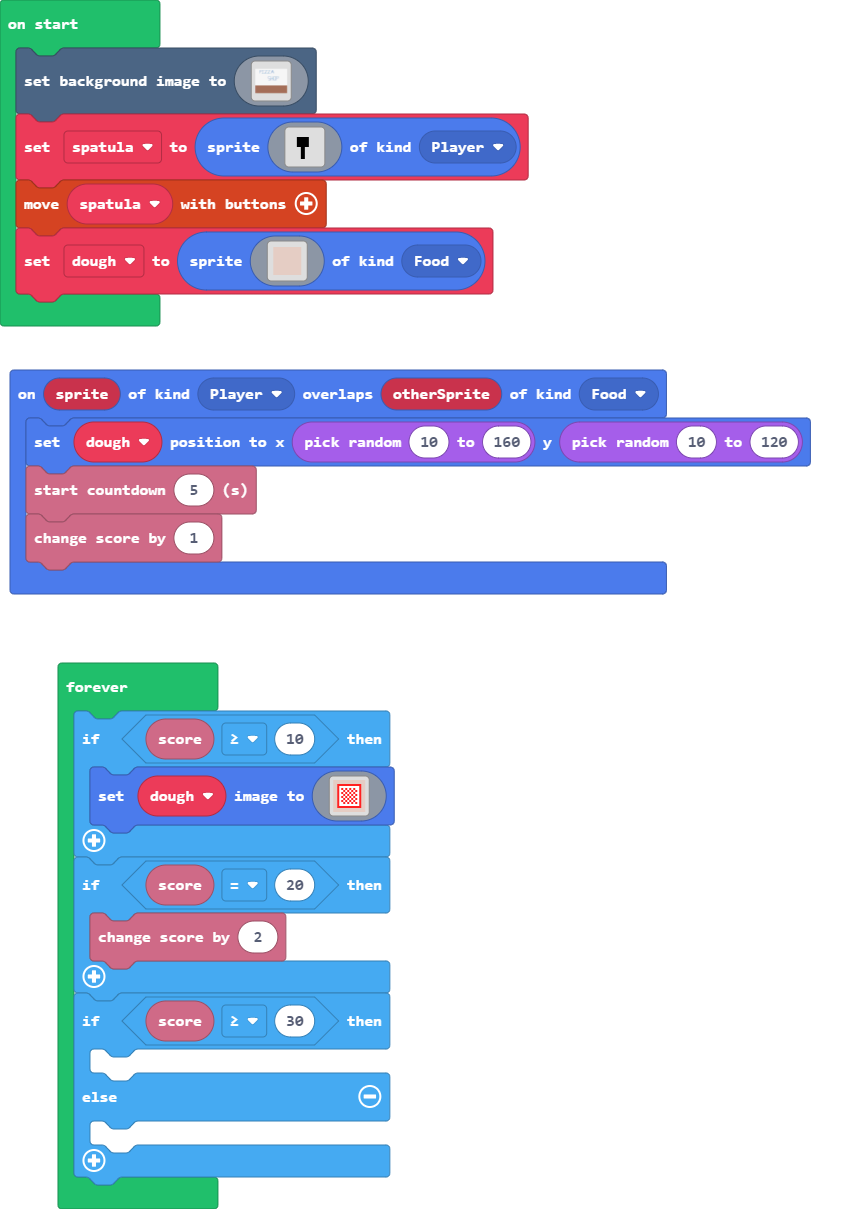
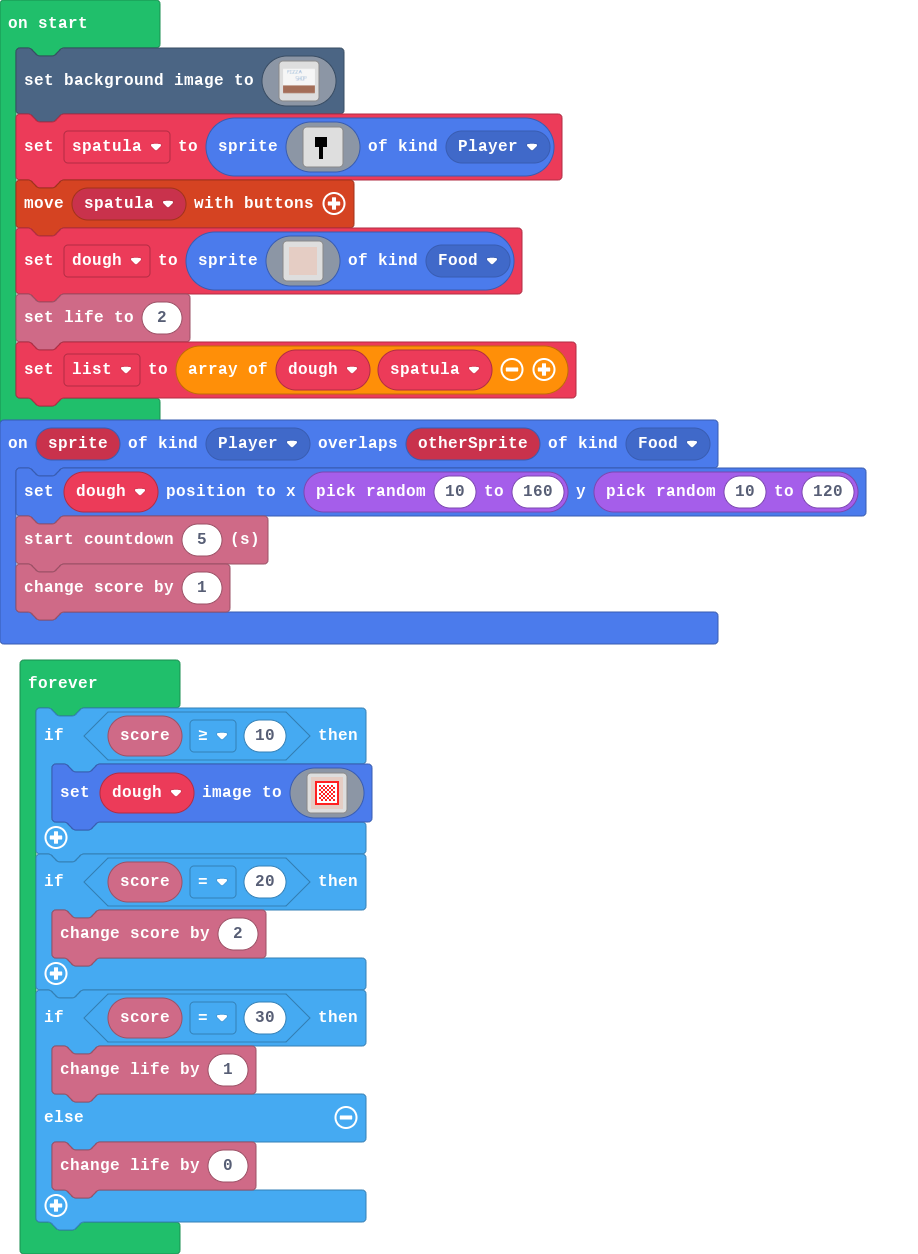
Update main.blocks, main.ts, main.py, images.g.jres, images.g.ts

diff --git a/images.g.ts b/images.g.ts
@@ -126,26 +126,98 @@ eeeeeeeeeeeeeeeeeeeeeeeeeeeeeeeeeeeeeeeeeeeeeeeeeeeeeeeeeeeeeeeeeeeeeeeeeeeeeeee
 eeeeeeeeeeeeeeeeeeeeeeeeeeeeeeeeeeeeeeeeeeeeeeeeeeeeeeeeeeeeeeeeeeeeeeeeeeeeeeeeeeeeeeeeeeeeeeeeeeeeeeeeeeeeeeeeeeeeeeeeeeeeeeeeeeeeeeeeeeeeeeeeeeeeeeeeeeeeeeee
 eeeeeeeeeeeeeeeeeeeeeeeeeeeeeeeeeeeeeeeeeeeeeeeeeeeeeeeeeeeeeeeeeeeeeeeeeeeeeeeeeeeeeeeeeeeeeeeeeeeeeeeeeeeeeeeeeeeeeeeeeeeeeeeeeeeeeeeeeeeeeeeeeeeeeeeeeeeeeeee
 `;
+            case "image5":return img`
+d d d d d d d d d d d d d d d d 
+d d d d d d d d d d d d d d d d 
+d d 2 2 2 2 2 2 2 2 2 2 2 2 d d 
+d d 2 1 1 1 1 1 1 1 1 1 1 2 d d 
+d d 2 1 2 1 2 1 2 1 2 1 1 2 d d 
+d d 2 1 1 2 1 2 1 2 1 2 1 2 d d 
+d d 2 1 2 1 2 1 2 1 2 1 1 2 d d 
+d d 2 1 1 2 1 2 1 2 1 2 1 2 d d 
+d d 2 1 2 1 2 1 2 1 2 1 1 2 d d 
+d d 2 1 1 2 1 2 1 2 1 2 1 2 d d 
+d d 2 1 2 1 2 1 2 1 2 1 1 2 d d 
+d d 2 1 1 2 1 2 1 2 1 2 1 2 d d 
+d d 2 1 1 1 1 1 1 1 1 1 1 2 d d 
+d d 2 2 2 2 2 2 2 2 2 2 2 2 d d 
+d d d d d d d d d d d d d d d d 
+d d d d d d d d d d d d d d d d 
+`;
+            case "image6":return img`
+. . . . . . . . . . . . . . . . 
+. . . . . . . . . . . . . . . . 
+. . . . . . . . . . . . . . . . 
+. . . . f f f f f f . . . . . . 
+. . . . f f f f f f . . . . . . 
+. . . . f f f f f f . . . . . . 
+. . . . f f f f f f . . . . . . 
+. . . . f f f f f f . . . . . . 
+. . . . . . f f . . . . . . . . 
+. . . . . . f f . . . . . . . . 
+. . . . . . f f . . . . . . . . 
+. . . . . . f f . . . . . . . . 
+. . . . . . f f . . . . . . . . 
+. . . . . . f f . . . . . . . . 
+. . . . . . . . . . . . . . . . 
+. . . . . . . . . . . . . . . . 
+`;
+            case "image7":return img`
+. . . . . . . . . . . . . . . . 
+. d d d d d d d d d d d d d d . 
+. d d d d d d d d d d d d d d . 
+. d d d d d d d d d d d d d d . 
+. d d d d d d d d d d d d d d . 
+. d d d d d d d d d d d d d d . 
+. d d d d d d d d d d d d d d . 
+. d d d d d d d d d d d d d d . 
+. d d d d d d d d d d d d d d . 
+. d d d d d d d d d d d d d d . 
+. d d d d d d d d d d d d d d . 
+. d d d d d d d d d d d d d d . 
+. d d d d d d d d d d d d d d . 
+. d d d d d d d d d d d d d d . 
+. d d d d d d d d d d d d d d . 
+. . . . . . . . . . . . . . . . 
+`;
             case "image2":return img`
-. . . . . . . . . . . . . . . . 
-. . . . . . . . . . . . . . . . 
-. . . . . . . . . . . . . . . . 
-. . . . f f f f f f . . . . . . 
-. . . . f f f f f f . . . . . . 
-. . . . f f f f f f . . . . . . 
-. . . . f f f f f f . . . . . . 
-. . . . f f f f f f . . . . . . 
-. . . . . . f f . . . . . . . . 
-. . . . . . f f . . . . . . . . 
-. . . . . . f f . . . . . . . . 
-. . . . . . f f . . . . . . . . 
-. . . . . . f f . . . . . . . . 
-. . . . . . f f . . . . . . . . 
-. . . . . . . . . . . . . . . . 
-. . . . . . . . . . . . . . . . 
+d d d d d d d d d d d d d d d d 
+d d d d d d d d d d d d d d d d 
+d d 2 2 2 2 2 2 2 2 2 2 2 2 d d 
+d d 2 1 1 1 1 1 1 1 1 1 1 2 d d 
+d d 2 1 2 1 2 1 2 1 2 1 1 2 d d 
+d d 2 1 1 2 1 2 1 2 1 2 1 2 d d 
+d d 2 1 2 1 2 1 2 1 2 1 1 2 d d 
+d d 2 1 1 2 1 2 1 2 1 2 1 2 d d 
+d d 2 1 2 1 2 1 2 1 2 1 1 2 d d 
+d d 2 1 1 2 1 2 1 2 1 2 1 2 d d 
+d d 2 1 2 1 2 1 2 1 2 1 1 2 d d 
+d d 2 1 1 2 1 2 1 2 1 2 1 2 d d 
+d d 2 1 1 1 1 1 1 1 1 1 1 2 d d 
+d d 2 2 2 2 2 2 2 2 2 2 2 2 d d 
+d d d d d d d d d d d d d d d d 
+d d d d d d d d d d d d d d d d 
 `;
             case "image3":return img`
 . . . . . . . . . . . . . . . . 
+. . . . . . . . . . . . . . . . 
+. . . . . . . . . . . . . . . . 
+. . . . f f f f f f . . . . . . 
+. . . . f f f f f f . . . . . . 
+. . . . f f f f f f . . . . . . 
+. . . . f f f f f f . . . . . . 
+. . . . f f f f f f . . . . . . 
+. . . . . . f f . . . . . . . . 
+. . . . . . f f . . . . . . . . 
+. . . . . . f f . . . . . . . . 
+. . . . . . f f . . . . . . . . 
+. . . . . . f f . . . . . . . . 
+. . . . . . f f . . . . . . . . 
+. . . . . . . . . . . . . . . . 
+. . . . . . . . . . . . . . . . 
+`;
+            case "image4":return img`
+. . . . . . . . . . . . . . . . 
 . d d d d d d d d d d d d d d . 
 . d d d d d d d d d d d d d d . 
 . d d d d d d d d d d d d d d . 
@@ -162,7 +234,7 @@ eeeeeeeeeeeeeeeeeeeeeeeeeeeeeeeeeeeeeeeeeeeeeeeeeeeeeeeeeeeeeeeeeeeeeeeeeeeeeeee
 . d d d d d d d d d d d d d d . 
 . . . . . . . . . . . . . . . . 
 `;
-            case "image4":return img`
+            case "image8":return img`
 d d d d d d d d d d d d d d d d 
 d d d d d d d d d d d d d d d d 
 d d 2 2 2 2 2 2 2 2 2 2 2 2 d d 
@@ -179,6 +251,42 @@ d d 2 1 1 1 1 1 1 1 1 1 1 2 d d
 d d 2 2 2 2 2 2 2 2 2 2 2 2 d d 
 d d d d d d d d d d d d d d d d 
 d d d d d d d d d d d d d d d d 
+`;
+            case "image9":return img`
+. . . . . . . . . . . . . . . . 
+. . . . . . . . . . . . . . . . 
+. . . . . . . . . . . . . . . . 
+. . . . f f f f f f . . . . . . 
+. . . . f f f f f f . . . . . . 
+. . . . f f f f f f . . . . . . 
+. . . . f f f f f f . . . . . . 
+. . . . f f f f f f . . . . . . 
+. . . . . . f f . . . . . . . . 
+. . . . . . f f . . . . . . . . 
+. . . . . . f f . . . . . . . . 
+. . . . . . f f . . . . . . . . 
+. . . . . . f f . . . . . . . . 
+. . . . . . f f . . . . . . . . 
+. . . . . . . . . . . . . . . . 
+. . . . . . . . . . . . . . . . 
+`;
+            case "image10":return img`
+. . . . . . . . . . . . . . . . 
+. d d d d d d d d d d d d d d . 
+. d d d d d d d d d d d d d d . 
+. d d d d d d d d d d d d d d . 
+. d d d d d d d d d d d d d d . 
+. d d d d d d d d d d d d d d . 
+. d d d d d d d d d d d d d d . 
+. d d d d d d d d d d d d d d . 
+. d d d d d d d d d d d d d d . 
+. d d d d d d d d d d d d d d . 
+. d d d d d d d d d d d d d d . 
+. d d d d d d d d d d d d d d . 
+. d d d d d d d d d d d d d d . 
+. d d d d d d d d d d d d d d . 
+. d d d d d d d d d d d d d d . 
+. . . . . . . . . . . . . . . . 
 `;
         }
         return null;

diff --git a/main.ts b/main.ts
@@ -42,6 +42,8 @@ dough = sprites.create(img`
     . d d d d d d d d d d d d d d . 
     . . . . . . . . . . . . . . . . 
     `, SpriteKind.Food)
+info.setLife(2)
+let list = [dough, spatula]
 forever(function () {
     if (info.score() >= 10) {
         dough.setImage(img`
@@ -66,9 +68,9 @@ forever(function () {
     if (info.score() == 20) {
         info.changeScoreBy(2)
     }
-    if (info.score() >= 30) {
-    	
+    if (info.score() == 30) {
+        info.changeLifeBy(1)
     } else {
-    	
+        info.changeLifeBy(0)
     }
 })

diff --git a/main.py b/main.py
@@ -47,6 +47,8 @@ dough = sprites.create(img("""
             . . . . . . . . . . . . . . . .
     """),
     SpriteKind.food)
+info.set_life(2)
+list = [dough, spatula]
 
 def on_forever():
     if info.score() >= 10:
@@ -69,5 +71,9 @@ def on_forever():
                         d d d d d d d d d d d d d d d d
         """))
     if info.score() == 20:
-        game.over(True)
+        info.change_score_by(2)
+    if info.score() == 30:
+        info.change_life_by(1)
+    else:
+        info.change_life_by(0)
 forever(on_forever)
